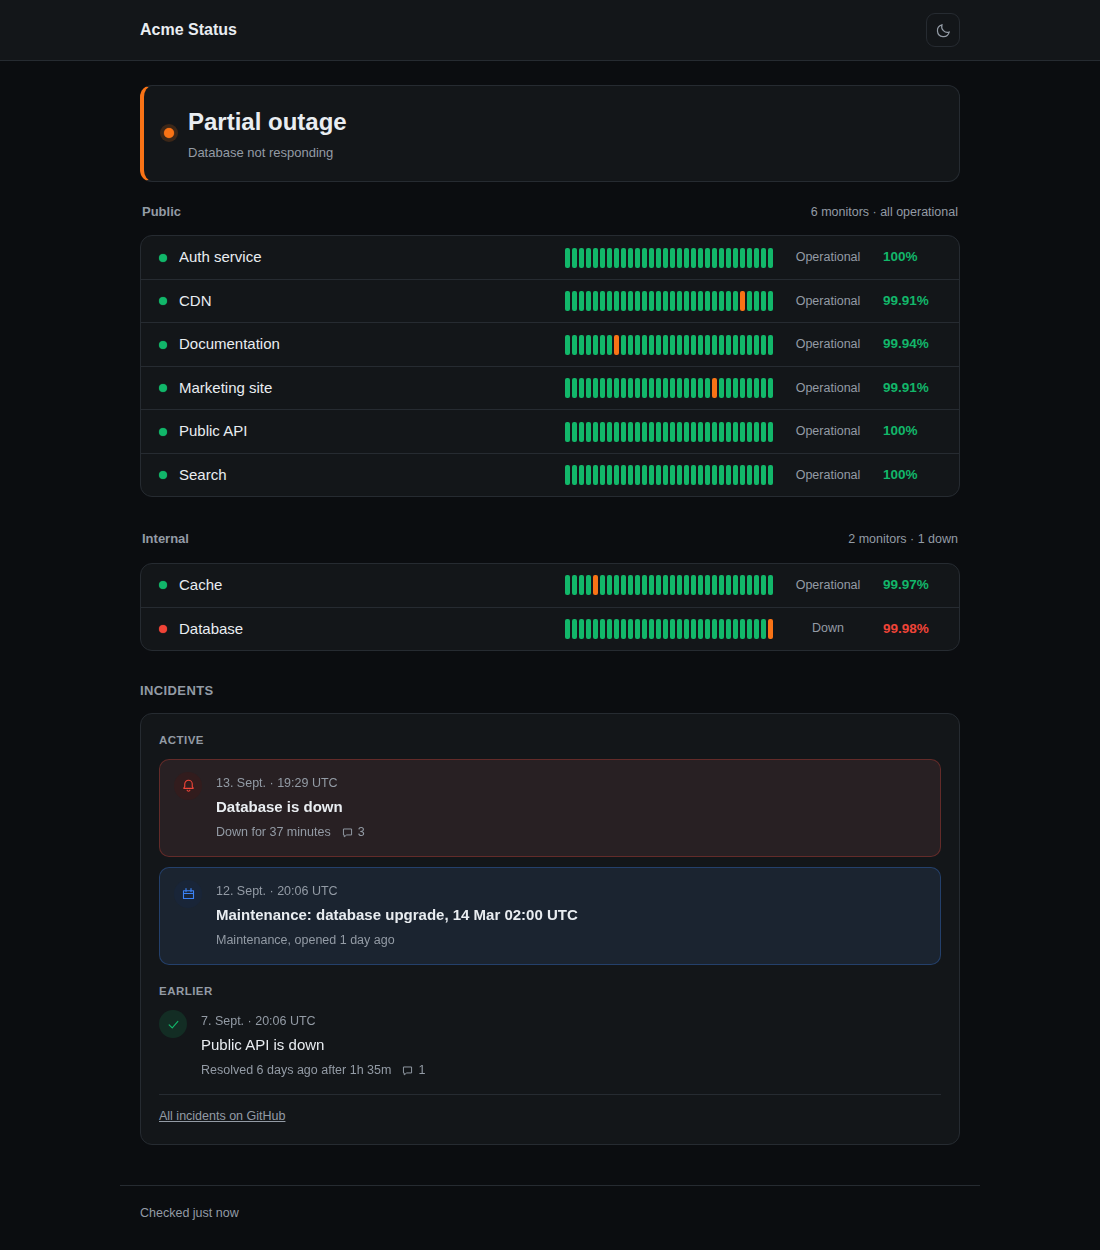
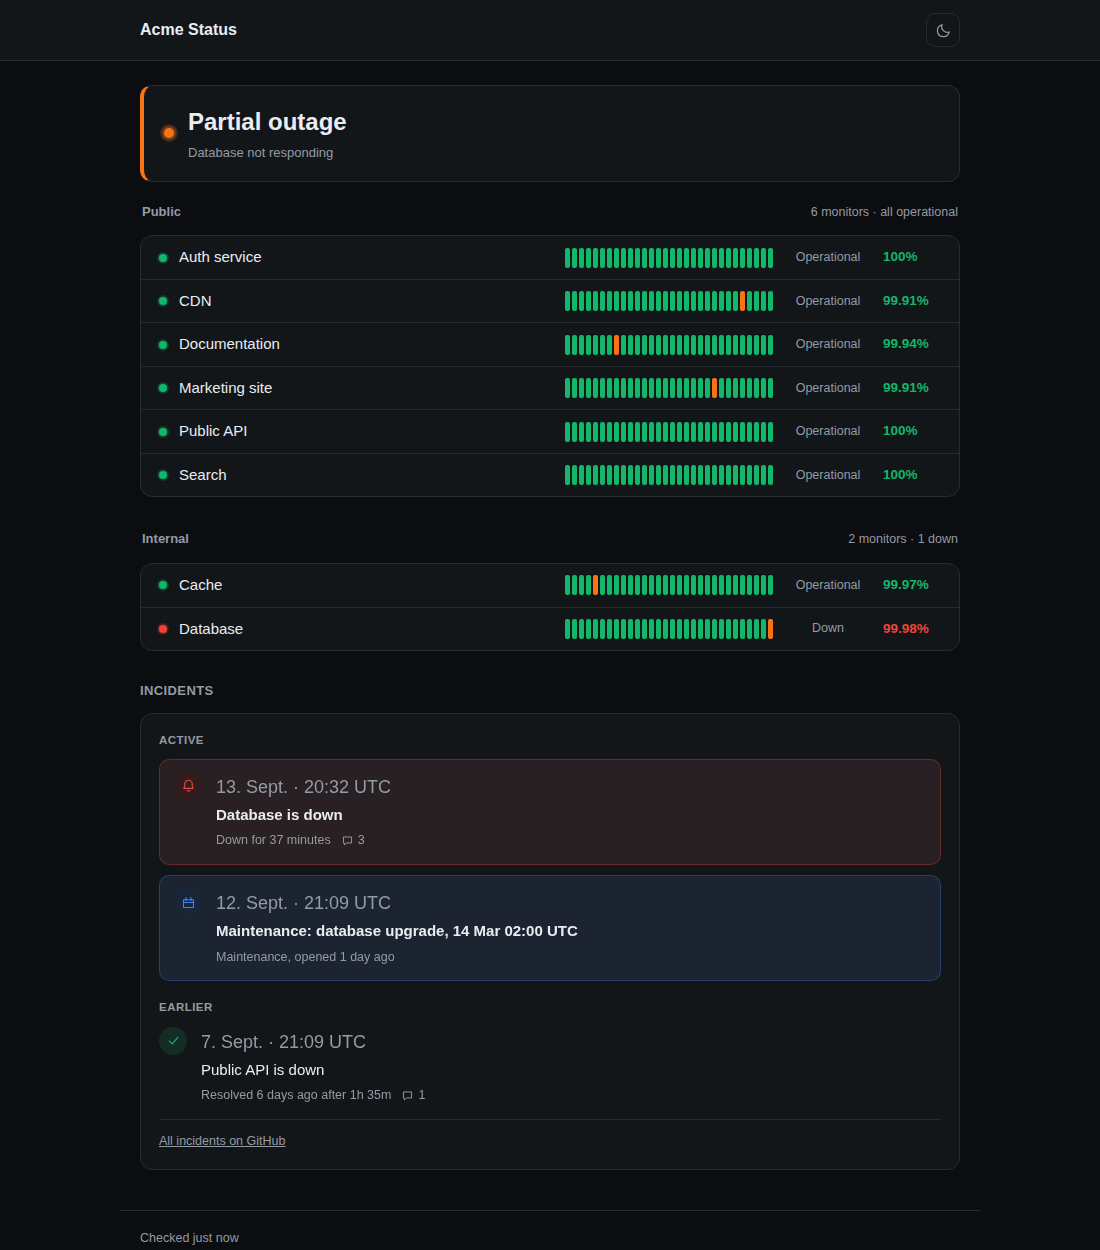
style: 18px on the date of an incident

Changed region(s): [[0.1236, 0.624, 0.5255, 0.936], [0.1236, 0.9672, 0.2164, 0.9984]]

diff --git a/site/style.css b/site/style.css
@@ -263,7 +263,7 @@ main.shell {
 }
 
 .event-date {
-  font-size: 12.5px;
+  font-size: 18px;
   color: var(--muted);
 }
 
